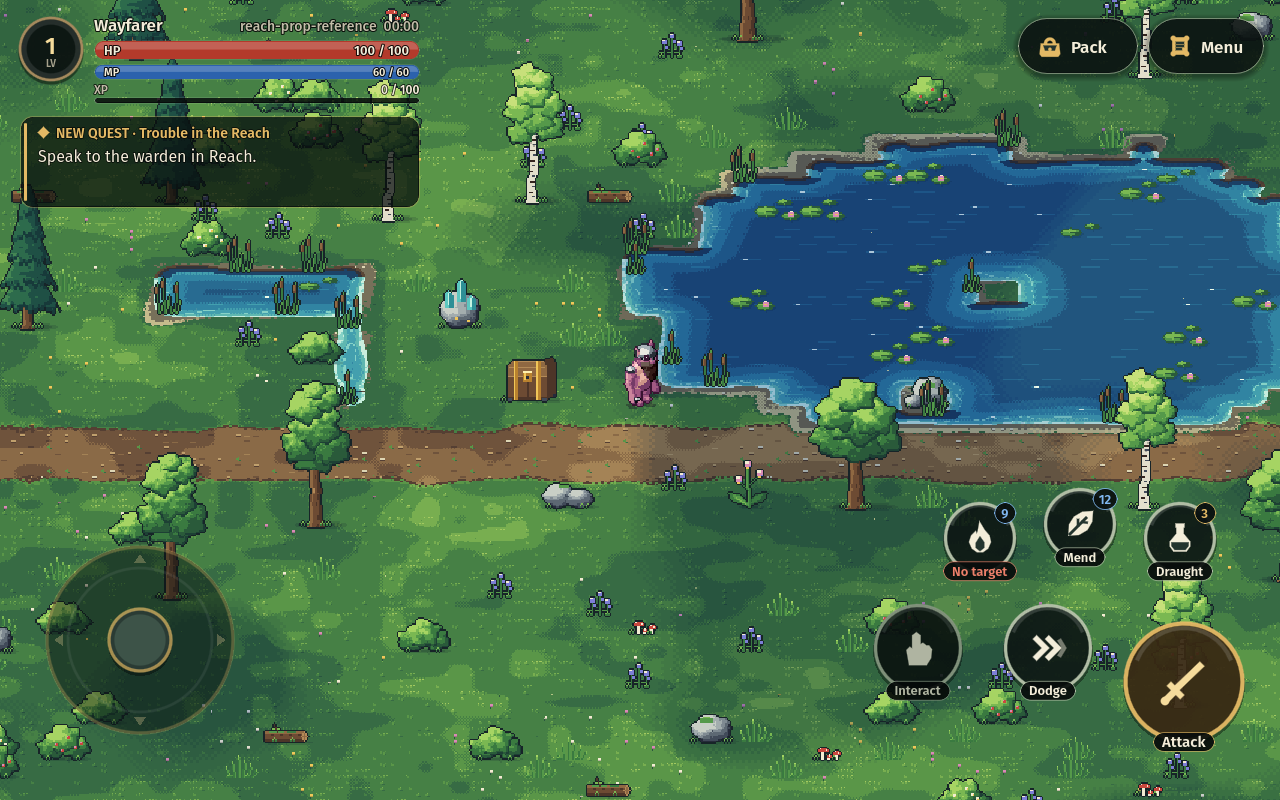
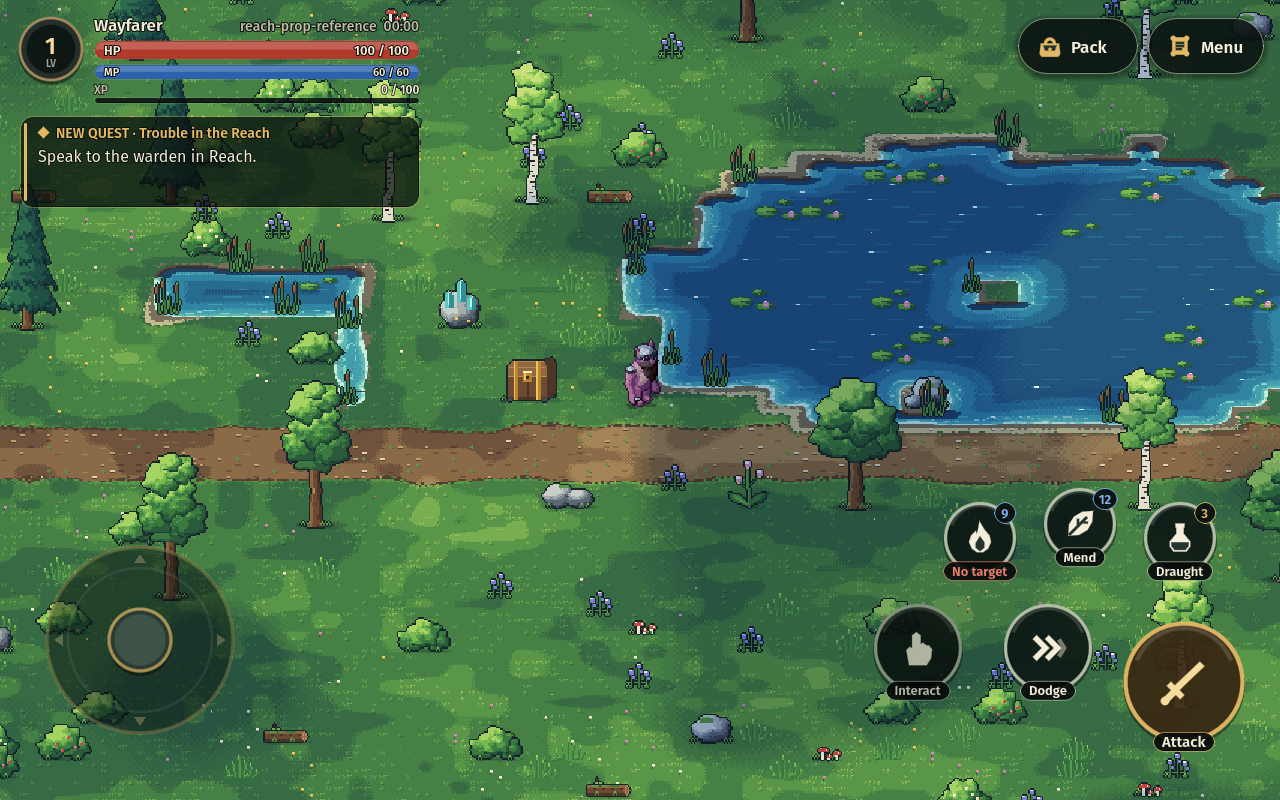
Cast cloud shadow over the whole Reach scene
Cloud shadow is multiplied over the finished world again, so it crosses
props and actors as well as terrain, instead of being sampled only by the
ground, water and rock shaders. Refresh the Part 4 captures to match.

Claude-Session: https://claude.ai/code/session_011Mxa9pGUUaW2Es1eaWrmwf

diff --git a/game/dev/OverworldAmbience.cs b/game/dev/OverworldAmbience.cs
@@ -59,9 +59,9 @@ public partial class ReachAmbienceDriver : Node
     public override void _Process(double delta)=>ReachAmbience.Advance(delta,ReducedMotion());
 }
 
-/// <summary>The Reach's air: one small process-lifetime cloud field that every terrain
-/// shader samples for drifting shadow, and a few motes of pollen drawn above the world
-/// and beneath the interface. No extra full-screen pass, particles or per-frame allocation.</summary>
+/// <summary>The Reach's air, above the world and beneath the interface: drifting cloud
+/// shadow multiplied over terrain, props and actors from one small process-lifetime
+/// field, and a few motes of pollen. No particles or per-frame allocation.</summary>
 public partial class OverworldAtmosphere : Node2D
 {
     public const int CloudSize=128,CloudCells=8;
@@ -69,6 +69,8 @@ public partial class OverworldAtmosphere : Node2D
     public RegionState Region {get;init;}=null!;
     public static bool Enabled=>OverworldRockRenderer.Enabled;
     static ImageTexture? clouds;
+    static Shader? shader;
+    ShaderMaterial? material;
     float drawn=float.NaN;
     Vector2 centre;
     /// <summary>Two octaves of periodic value noise, 0..1, identical in every process.</summary>
@@ -83,8 +85,7 @@ public partial class OverworldAtmosphere : Node2D
         }
         return Octave(CloudCells,0)*.65f+Octave(CloudCells*2+2,1)*.35f;
     }
-    /// <summary>Give a terrain material the shared cloud field and this region's offset.</summary>
-    public static void Configure(ShaderMaterial material,RegionState region)
+    static void Configure(ShaderMaterial material,RegionState region)
     {
         if(clouds==null)
         {
@@ -104,7 +105,20 @@ public partial class OverworldAtmosphere : Node2D
         var drift=new Vector2(MathF.Sin(time*.31f+h*6.28f)*22,MathF.Cos(time*.23f+k*6.28f)*13-(time*2+h*40)%40*.4f);
         return ((home+drift).Floor(),.5f+.5f*MathF.Sin(time*1.4f+k*30));
     }
-    public override void _Ready()=>AddToGroup("overworld-atmosphere");
+    public override void _Ready()
+    {
+        AddToGroup("overworld-atmosphere");
+        shader??=GD.Load<Shader>("res://game/art/overworld_atmosphere.gdshader");
+        material=new ShaderMaterial{Shader=shader};Configure(material,Region);ReachAmbience.Register(material);
+        // The shadow is its own item so the pollen above it keeps ordinary blending.
+        AddChild(new CloudShadow{Size=new Vector2(Region.Width*24,Region.Height*12),Material=material,ShowBehindParent=true});
+    }
+    public override void _ExitTree(){ReachAmbience.Unregister(material);material?.Dispose();}
+    partial class CloudShadow : Node2D
+    {
+        public Vector2 Size {get;init;}
+        public override void _Draw()=>DrawRect(new Rect2(Vector2.Zero,Size),Colors.White);
+    }
     public override void _Process(double delta)
     {
         // Redraw only when the clock moved or the camera uncovered other cells.

diff --git a/game/dev/OverworldRockRenderer.cs b/game/dev/OverworldRockRenderer.cs
@@ -65,9 +65,8 @@ public partial class OverworldRockRenderer : Node2D
         material=new ShaderMaterial{Shader=shader};
         material.SetShaderParameter("rock_map",lookup);material.SetShaderParameter("rock_lookup_size",new Vector2(width,height));
         material.SetShaderParameter("rock_palette",Ramp);material.SetShaderParameter("rock_seed",(float)(EnvironmentStyle.Hash(Region.Seed,0,0,9300)%97));
-        OverworldAtmosphere.Configure(material,Region);ReachAmbience.Register(material);
         Material=material;LastLookupBytes=(long)width*height*3;LastVertexBytes=batch.VertexBytes+boulders.VertexBytes;LastBuildMilliseconds=timer.Elapsed.TotalMilliseconds;
     }
     public override void _Draw()=>batch.Draw(this);
-    public override void _ExitTree(){ReachAmbience.Unregister(material);batch.Dispose();boulders.Dispose();material?.Dispose();lookup?.Dispose();}
+    public override void _ExitTree(){batch.Dispose();boulders.Dispose();material?.Dispose();lookup?.Dispose();}
 }

diff --git a/game/dev/OverworldGroundRenderer.cs b/game/dev/OverworldGroundRenderer.cs
@@ -45,7 +45,6 @@ public partial class OverworldGroundRenderer : Node2D
     }
     public void Configure(ShaderMaterial target)
     {
-        OverworldAtmosphere.Configure(target,Region);
         target.SetShaderParameter("ground_map",lookup!);
         target.SetShaderParameter("ground_lookup_size",new Vector2(Region.Width*8+1,Region.Height*4+1));
         target.SetShaderParameter("ground_palette",OverworldGroundArt.Ramp);

diff --git a/docs/OVERWORLD_PART4_HANDOFF.md b/docs/OVERWORLD_PART4_HANDOFF.md
@@ -42,10 +42,9 @@ Part 4 captures beside them (`part4-after-*.png`, `part4-seed*.png`, `part4-reso
   scaled process time, so it stops when the game is frozen; reduced motion pins it to zero, which
   makes water, turf, cloud and pollen a single still frame; fixtures can hold it with
   `ReachAmbience.PreviewTime`.
-- **Atmosphere without an extra pass.** Cloud shadow is one 128×128 R8 tileable field
-  (16,384 bytes, built once per process) that the ground, water and rock shaders sample
-  themselves, so it costs one texture read rather than a blended full-screen layer. It falls on
-  terrain only; props and actors stay fully lit. `OverworldAtmosphere` draws the pollen as a few
+- **Atmosphere.** Cloud shadow is one 128×128 R8 tileable field (16,384 bytes, built once per
+  process) multiplied over the finished world by `overworld_atmosphere.gdshader`, so it crosses
+  terrain, props and actors alike. `OverworldAtmosphere` also draws the pollen as a few
   one-pixel rectangles over the cells near the camera.
 
 Unchanged: geography, collision, world RNG, movement, combat, rewards, save data, PPC
@@ -83,10 +82,11 @@ Local results on the final source:
 | Phone rendered UI suite | Passed, 213 s |
 | Normal-health adventure | Passed, 10,966 ticks, 84 health |
 
-The 1280×800 reference frame measured a median 28.8 ms with Part 4 against 24.9 ms with the
-outcrops, flora and pollen switched off, on llvmpipe. Because the rendered suites take about a
-sixth longer under software rendering, `tools/verify.py` now allows 480 s per suite (was 360 s)
-and the native CI job 25 minutes (was 20). Hosted CI has not run on this source.
+The table above was recorded before cloud shadow was restored as a whole-scene multiply pass.
+After that change the headless, props, water-reference and Part 2 suites were re-run and pass;
+the widescreen and two rendered UI suites were still running when this was pushed. Software
+rendering is slower with Part 4, so `tools/verify.py` now allows 480 s per suite (was 360 s) and
+the native CI job 25 minutes (was 20). Hosted CI has not run on this source.
 
 New and changed checks:
 
